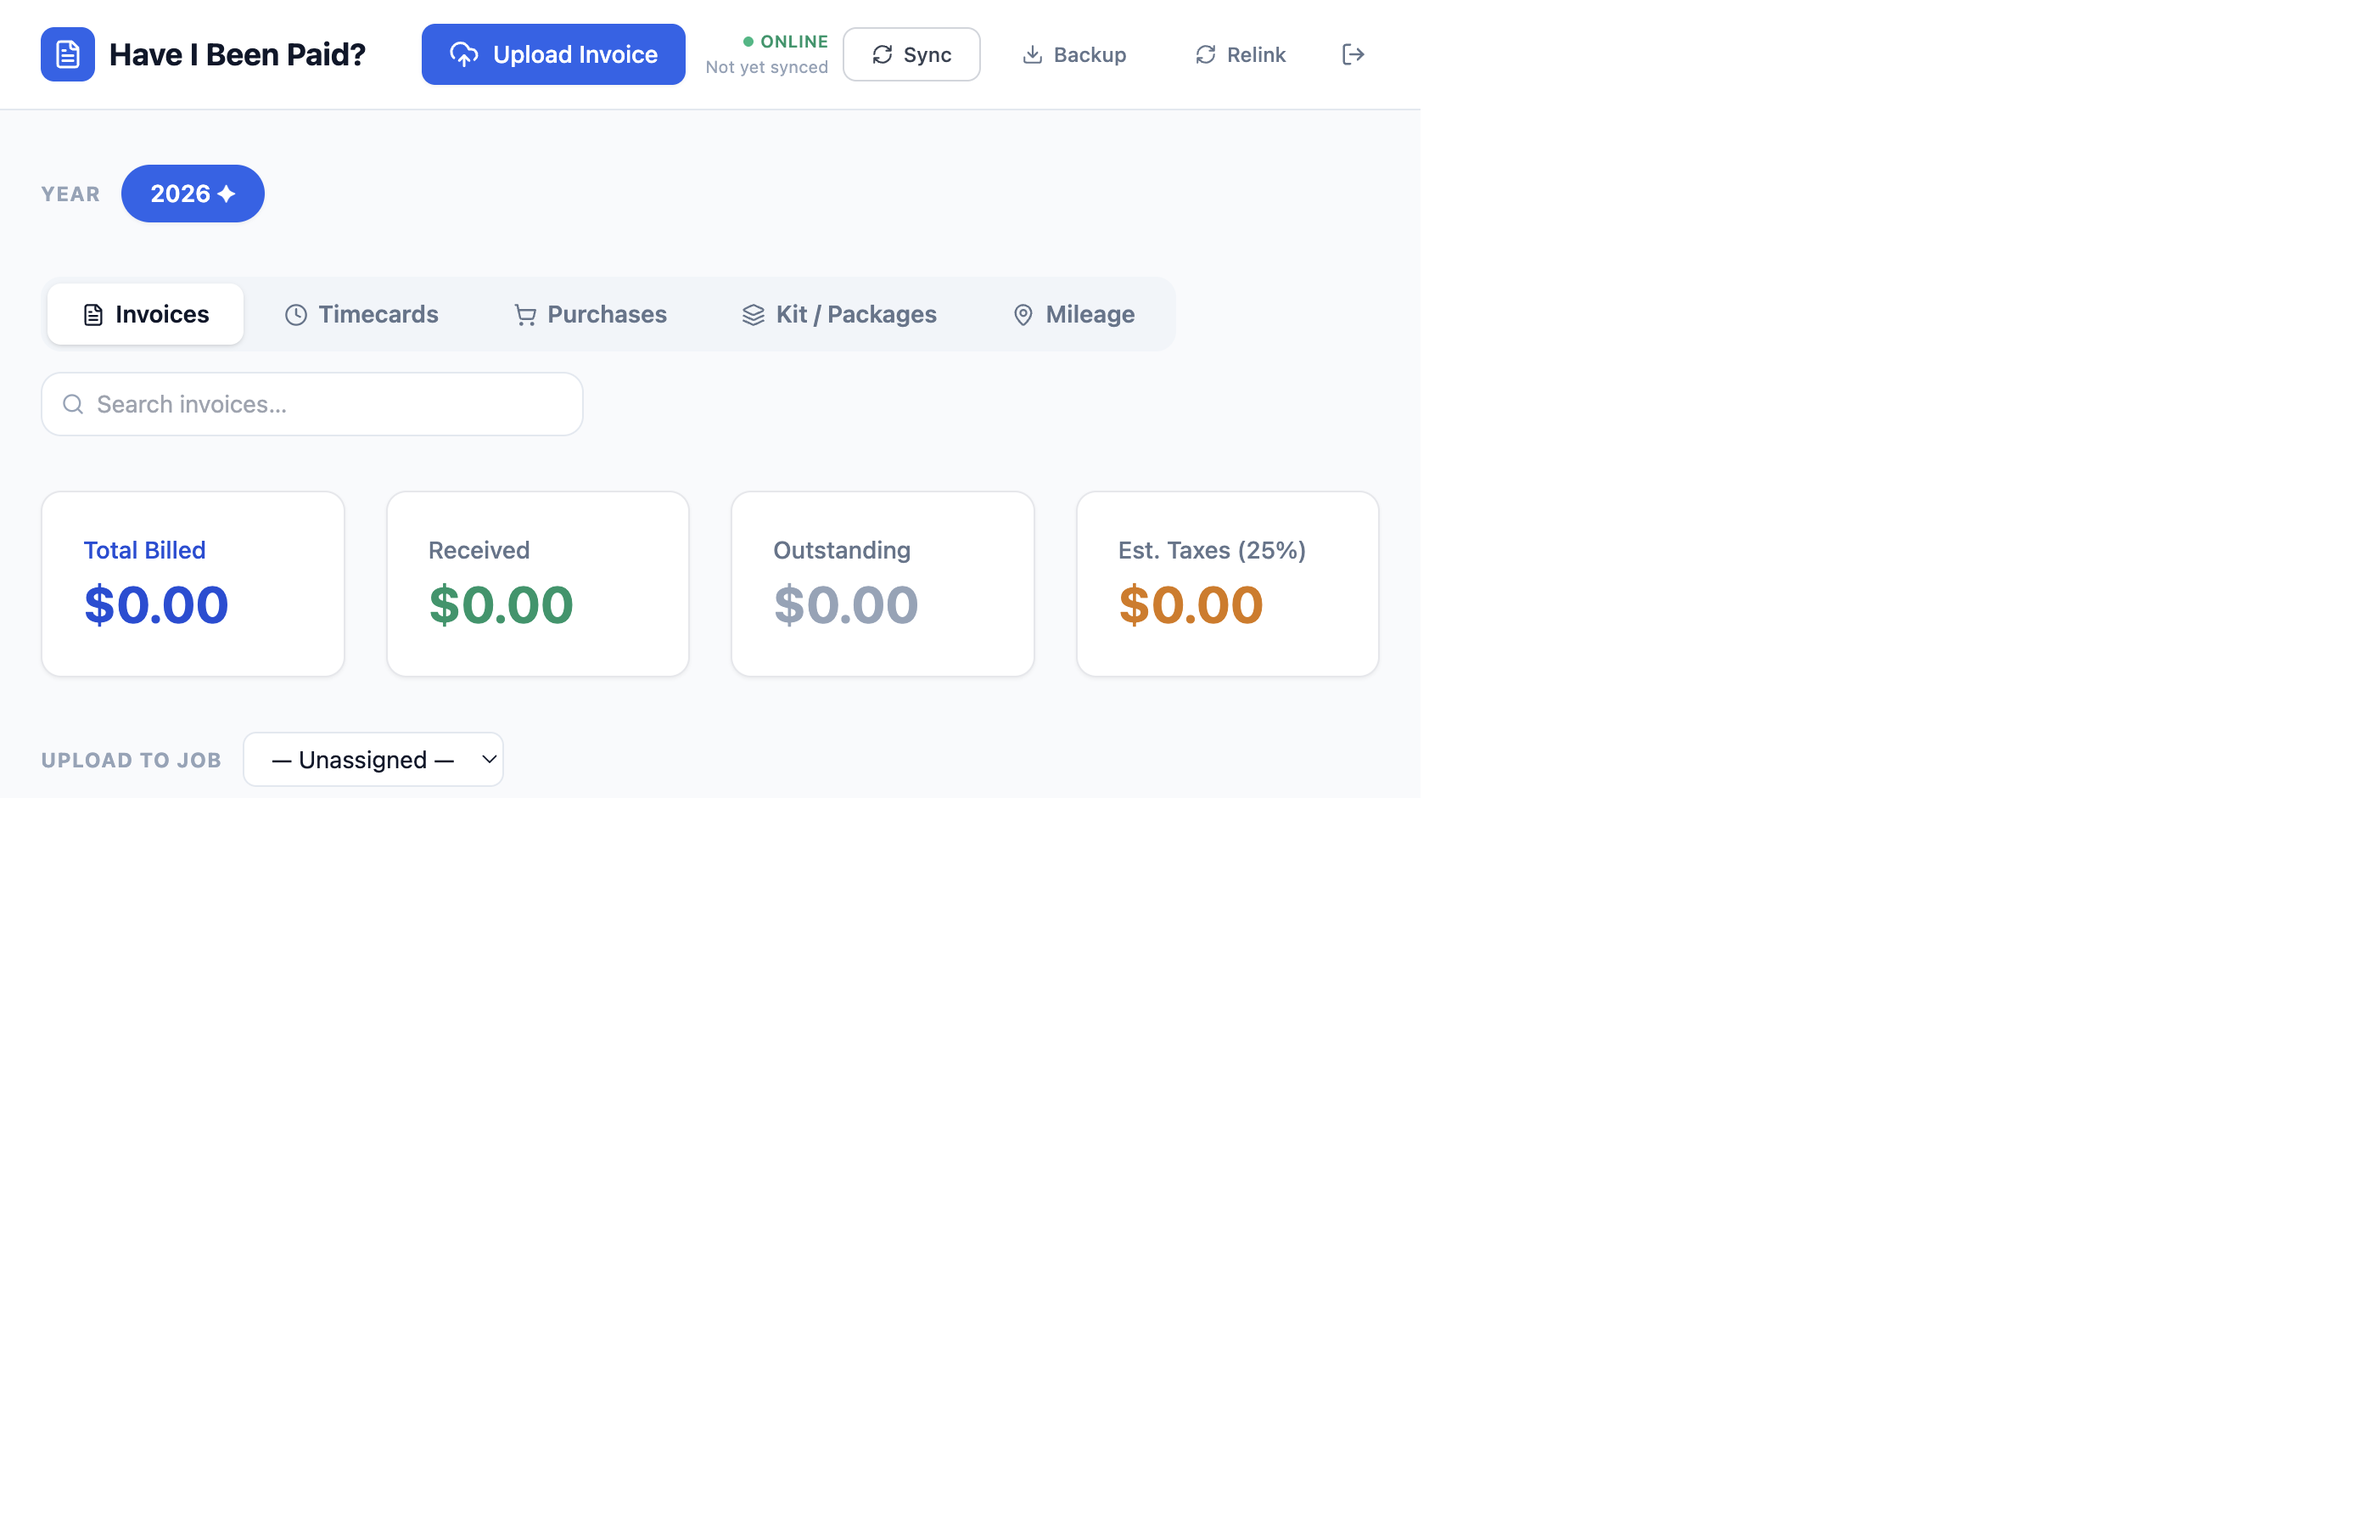
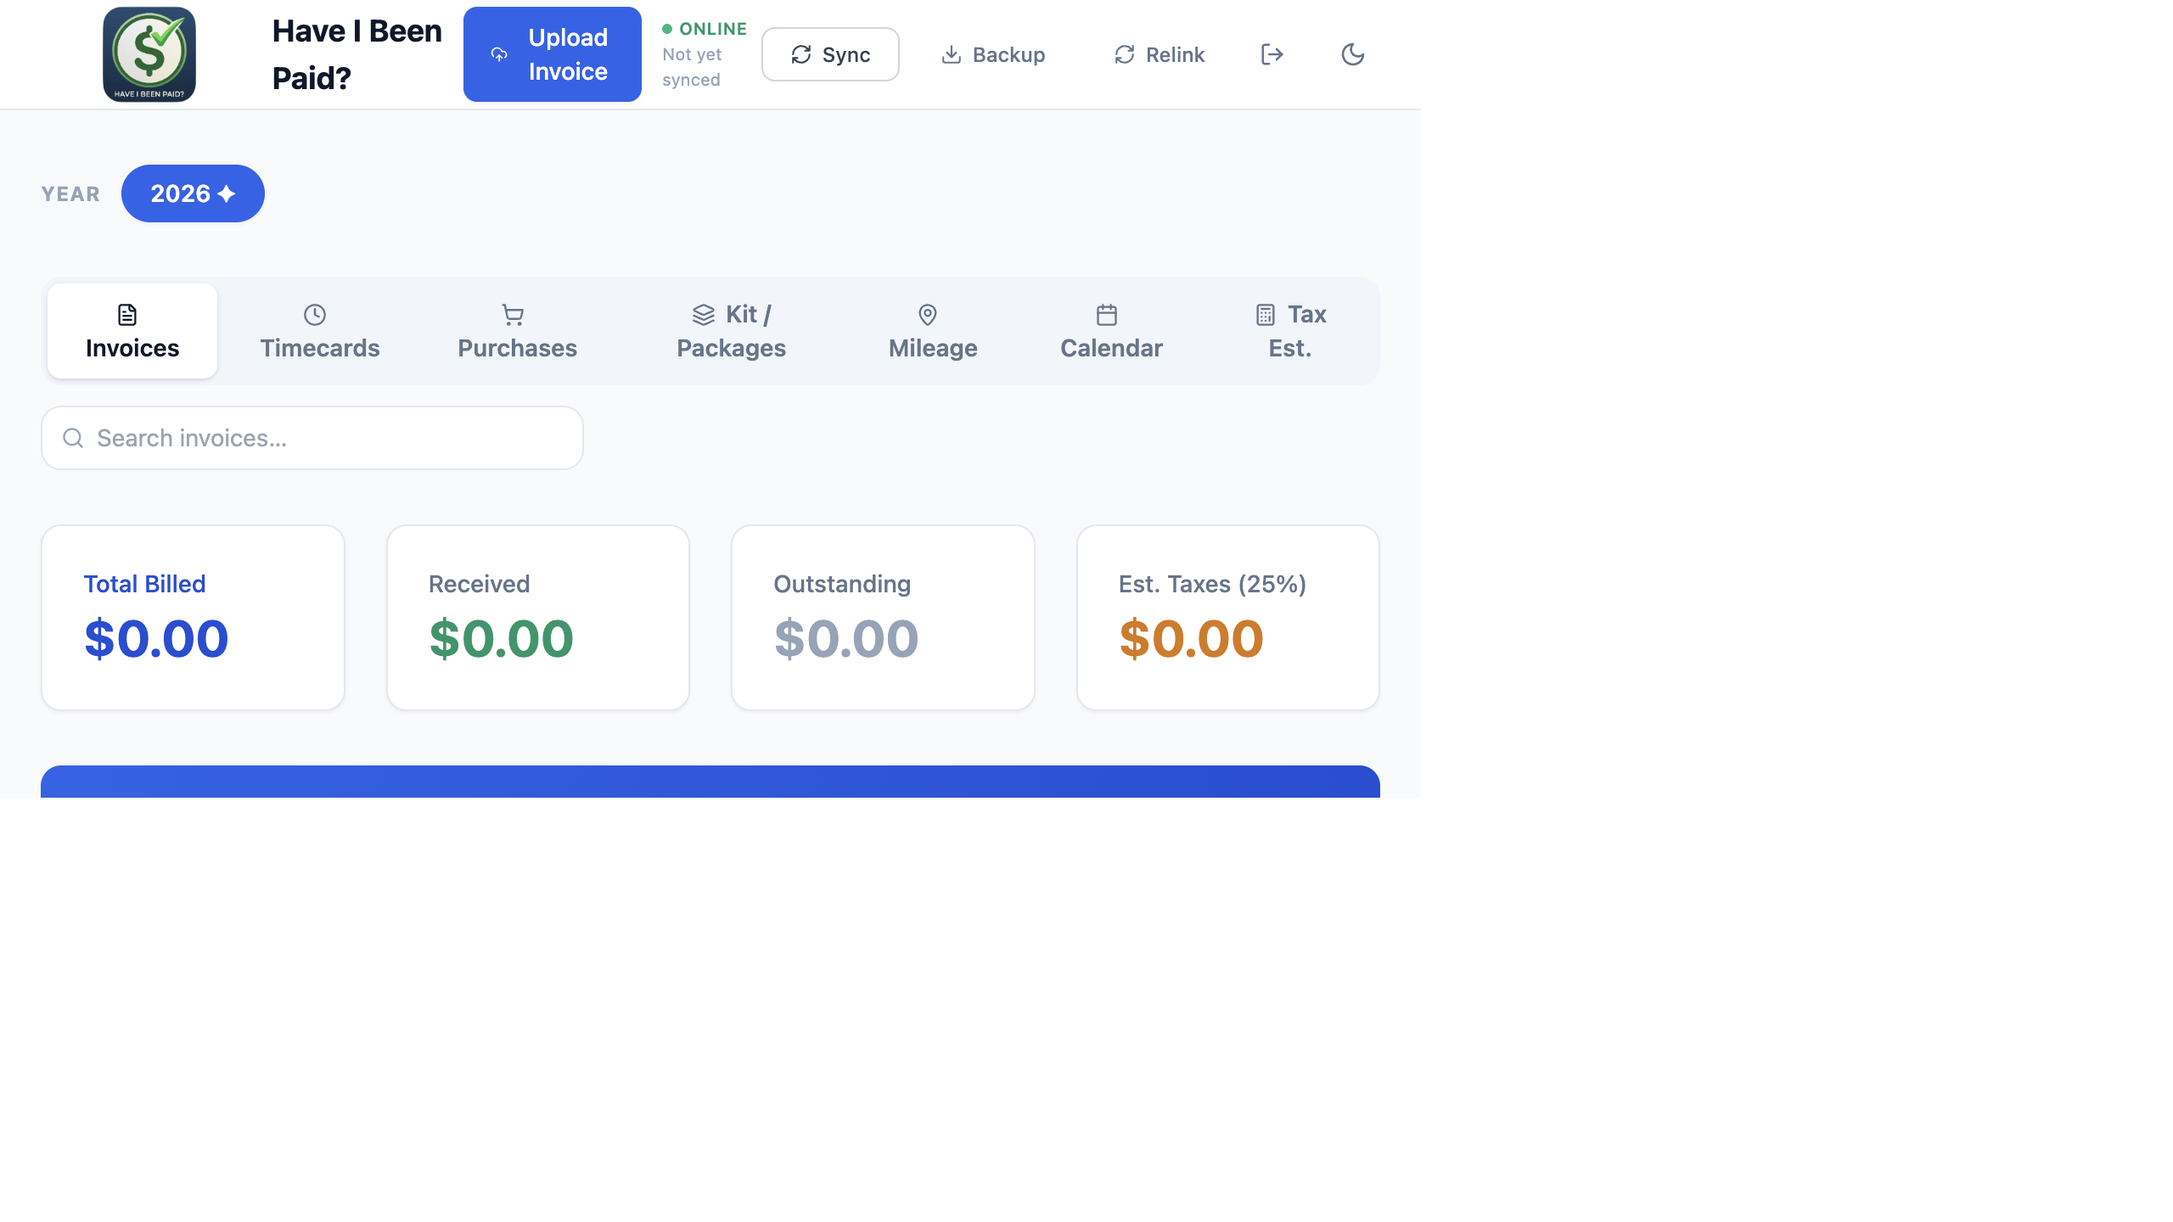
docs: Update README and screenshots for v1.6.0

diff --git a/README.md b/README.md
@@ -26,17 +26,20 @@
 ### Invoices Dashboard
 ![Invoices dashboard](docs/screenshots/invoices.png)
 
-### Create Invoice (with Logo Upload)
-![Create Invoice modal](docs/screenshots/create-invoice.png)
-
-### Timecards Dashboard
-![Timecards dashboard](docs/screenshots/timecards.png)
-
-### Timecard Entry Form
-![Timecard entry form](docs/screenshots/timecard-form.png)
-
 ### Purchases & Equipment
 ![Purchases tab](docs/screenshots/purchases.png)
+
+### Production Calendar
+![Calendar view](docs/screenshots/calendar.png)
+
+### Calendar Legend (all 7 hold types)
+![Calendar legend](docs/screenshots/calendar-legend.png)
+
+### Mark Days Modal (Hold Type Picker)
+![Hold type modal](docs/screenshots/hold-type-modal.png)
+
+### Quarterly Tax Estimator
+![Tax estimator](docs/screenshots/tax-estimator.png)
 
 ### Mileage & Vehicle Expenses
 ![Mileage tab](docs/screenshots/mileage.png)
@@ -47,8 +50,8 @@
 
 | Platform | Link |
 |----------|------|
-| macOS (Universal — Apple Silicon + Intel) | [Have I Been Paid-1.5.0-universal.dmg](https://github.com/rmendoza050288-coder/have-i-been-paid/releases/latest) |
-| Windows (x64) | [Have I Been Paid Setup 1.5.0.exe](https://github.com/rmendoza050288-coder/have-i-been-paid/releases/latest) |
+| macOS (Universal — Apple Silicon + Intel) | [Have I Been Paid-1.6.0-universal.dmg](https://github.com/rmendoza050288-coder/have-i-been-paid/releases/latest) |
+| Windows (x64) | [Have I Been Paid Setup 1.6.0.exe](https://github.com/rmendoza050288-coder/have-i-been-paid/releases/latest) |
 
 ---
 
@@ -89,7 +92,8 @@
 
 ### � Production Calendar *(v1.5.0)*
 - **Monthly Calendar View** — See all shoot days, hold days, travel days, and invoice due dates at a glance
-- **Color-Coded Events** — 🎬 Shoot days (blue), ⏸ Hold days (amber), ✈ Travel days (purple), 💰 Invoice due (orange), ⚠ Overdue (red), ✓ Paid (green)
+- **7 Hold / Day Types** *(v1.6.0)* — ✏ Soft Hold, ⏸ Hold, 🔒 Locked, ✈ Travel, 🔧 Prep, 🚧 Scout, 📦 Wrap — each with distinct colors and labels
+- **Color-Coded Events** — 🎬 Shoot days (blue), hold types (7 colors), 💰 Invoice due (orange), ⚠ Overdue (red), ✓ Paid (green)
 - **Upcoming Events Panel** — Next 8 events across all months shown in a quick-reference list
 - **Month Navigation** — Step through months with Prev/Next controls or jump to Today
 
@@ -180,6 +184,11 @@ All data lives in `offline_files/Have I Been Paid_/data.json` (split by year). U
 ---
 
 ## Changelog
+
+### v1.6.0 — May 31, 2026
+- **Hold Types Expanded** — Added Prep 🔧, Scout 🚧, and Wrap 📦 as new day-type categories alongside Soft Hold, Hold, Locked, and Travel; each has a distinct color, icon, and label in the calendar grid and legend
+- **Depreciation on Equipment Export** — CSV and PDF receipt reports now include Depreciation Method, Life / Asset Class, and the year-specific deduction amount for accountant handoff
+- **App Logo in Header** — Application logo is now displayed in the top navigation bar
 
 ### v1.5.0 — May 29, 2026
 - **Production Calendar** — New Calendar tab showing all timecard days and invoice due dates on a monthly grid with color-coded event chips and an Upcoming Events panel
